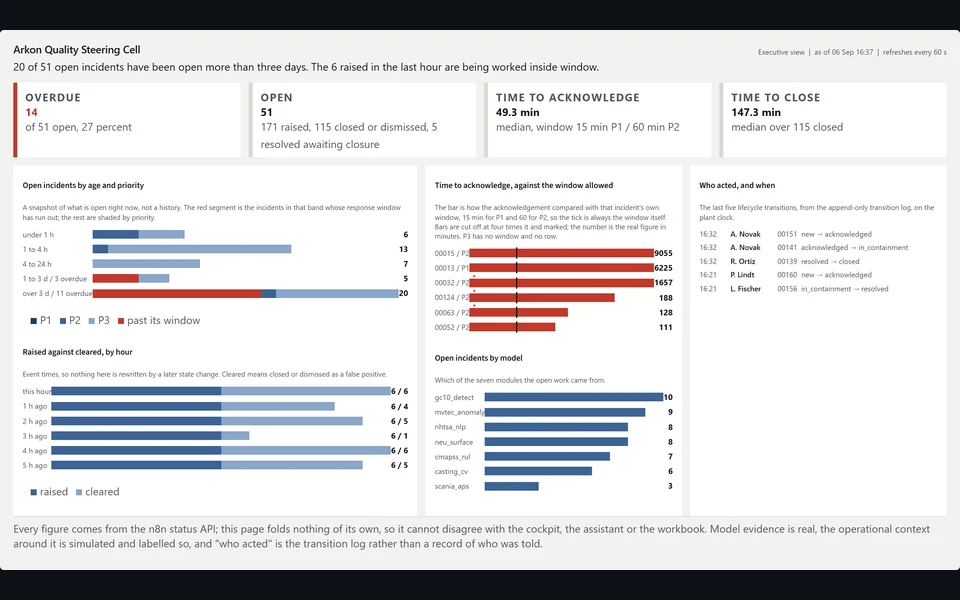
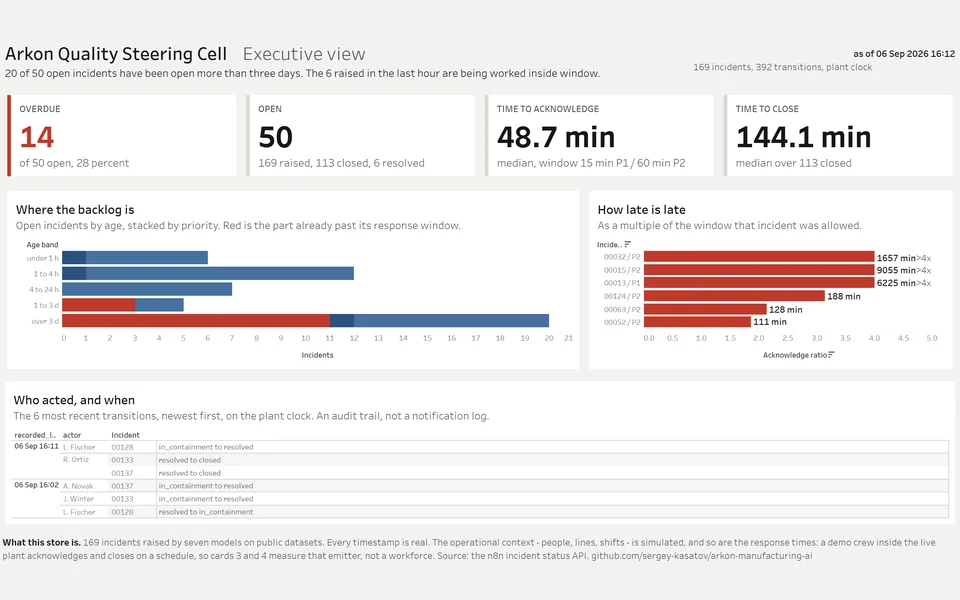
Pos. 13: the Arkon figure is the published Tableau executive view
The card was published this afternoon with a capture of the platform's own cockpit,
because the Tableau Public view printed hashes in two KPI cards at the time. The
republished view reads clean, so the figure now shows what the card's links open:
the Executive view as of 06 Sep 2026 16:12, with the alt texts, captions, index.md
sentence and the provenance row in assets/img/_sources.md following it.

diff --git a/de/projects.html b/de/projects.html
@@ -449,8 +449,8 @@
               <span class="badge-live"><span class="dot" aria-hidden="true"></span>Live</span>
             </div>
             <figure class="dc-fig">
-              <div class="dc-fig-box"><img src="../assets/img/p-arkon.webp" width="960" height="600" alt="Screenshot der Executive-Seite des Arkon-Cockpits am laufenden Werk: der Statussatz (20 von 51 offenen Vorf&#228;llen sind &#228;lter als drei Tage, die 6 der letzten Stunde werden innerhalb des Zeitfensters bearbeitet), vier KPI-Karten (&#252;berf&#228;llig 14 von 51, offen 51 bei 171 gemeldeten und 115 geschlossenen, Zeit bis zur Best&#228;tigung 49,3 min, Zeit bis zum Abschluss 147,3 min), offene Vorf&#228;lle nach Alter und Priorit&#228;t, gemeldet gegen erledigt je Stunde, Best&#228;tigungszeit gegen das erlaubte Zeitfenster, offene Vorf&#228;lle je Modell und die letzten f&#252;nf &#220;berg&#228;nge mit Bearbeiter" loading="lazy" decoding="async"></div>
-              <figcaption><b>Abb. 13</b><span>Streamlit-Cockpit, Executive-Seite am laufenden Werk · Aufnahme 06.09.2026</span></figcaption>
+              <div class="dc-fig-box"><img src="../assets/img/p-arkon.webp" width="960" height="600" alt="Screenshot der Executive-Ansicht der Arkon Quality Steering Cell auf Tableau Public, Stand 06.09.2026 16:12 Werksuhr: der Statussatz (20 von 50 offenen Vorf&#228;llen sind &#228;lter als drei Tage, die 6 der letzten Stunde werden innerhalb des Zeitfensters bearbeitet), vier KPI-Karten (&#252;berf&#228;llig 14 von 50 offenen, 28 Prozent; offen 50 bei 169 gemeldeten, 113 geschlossenen und 6 gel&#246;sten; Zeit bis zur Best&#228;tigung 48,7 min Median gegen ein Zeitfenster von 15 min f&#252;r P1 und 60 min f&#252;r P2; Zeit bis zum Abschluss 144,1 min Median &#252;ber 113 geschlossene), offene Vorf&#228;lle nach Altersband und Priorit&#228;t mit dem &#252;berf&#228;lligen Anteil in Rot, die sechs langsamsten Best&#228;tigungen als Vielfaches des jeweils erlaubten Zeitfensters und die sechs letzten &#220;berg&#228;nge mit Bearbeiter" loading="lazy" decoding="async"></div>
+              <figcaption><b>Abb. 13</b><span>Executive-Ansicht auf Tableau Public, Stand 06.09.2026 16:12 · Aufnahme 06.09.2026</span></figcaption>
             </figure>
             <div class="dc-body">
               <h3>Arkon Manufacturing AI</h3>

diff --git a/projects.html b/projects.html
@@ -452,8 +452,8 @@
               <span class="badge-live"><span class="dot" aria-hidden="true"></span>Live</span>
             </div>
             <figure class="dc-fig">
-              <div class="dc-fig-box"><img src="assets/img/p-arkon.webp" width="960" height="600" alt="Screenshot of the Arkon cockpit's Executive page on the live plant: the status sentence (20 of 51 open incidents open more than three days, the 6 raised in the last hour worked inside window), four KPI cards (overdue 14 of 51, open 51 with 171 raised and 115 closed, time to acknowledge 49.3 min, time to close 147.3 min), open incidents by age and priority, raised against cleared by hour, time to acknowledge against the window allowed, open incidents by model, and the last five transitions with who acted" loading="lazy" decoding="async"></div>
-              <figcaption><b>Fig. 13</b><span>Streamlit cockpit, Executive page on the live plant · captured 2026-09-06</span></figcaption>
+              <div class="dc-fig-box"><img src="assets/img/p-arkon.webp" width="960" height="600" alt="Screenshot of the Arkon Quality Steering Cell Executive view on Tableau Public, as of 6 Sep 2026 16:12 on the plant clock: the status sentence (20 of 50 open incidents open more than three days, the 6 raised in the last hour worked inside window), four KPI cards (overdue 14 of 50 open, 28 percent; open 50 with 169 raised, 113 closed and 6 resolved; time to acknowledge 48.7 min median against a window of 15 min for P1 and 60 min for P2; time to close 144.1 min median over 113 closed), open incidents by age band stacked by priority with the part past its window in red, the six slowest acknowledgements as a multiple of each incident's own window, and the six most recent transitions with who acted" loading="lazy" decoding="async"></div>
+              <figcaption><b>Fig. 13</b><span>Executive view on Tableau Public, as of 2026-09-06 16:12 · captured 2026-09-06</span></figcaption>
             </figure>
             <div class="dc-body">
               <h3>Arkon Manufacturing AI</h3>

diff --git a/assets/img/_sources.md b/assets/img/_sources.md
@@ -7,7 +7,7 @@ are the committed PNGs, the two online demos are CDP screenshots taken the same 
 (`capture_site_figures_2026_09_03.py`). The AI-Brain schematic (Pos. 12) is inline SVG in the pages,
 an architecture drawing and not a screenshot, and is labelled as such in its caption.
 
-Added 2026-09-06 by `agent_scripts/_oneoff/build_arkon_card_image_2026_09_06.py`: `p-arkon.webp`, the Arkon Manufacturing AI card on Pos. 13 (Sergey's decision the same evening: thirteen cards, the AI Order Triage Agent stays on Pos. 09 with `p-triage.webp`). The figure is a same-day CDP capture of the platform's own Streamlit cockpit on the live plant, not of the published Tableau Public view: that view's web renderer printed hashes in two KPI cards on the day of capture.
+Added 2026-09-06 by `agent_scripts/_oneoff/build_arkon_card_image_2026_09_06.py`: `p-arkon.webp`, the Arkon Manufacturing AI card on Pos. 13 (Sergey's decision the same evening: thirteen cards, the AI Order Triage Agent stays on Pos. 09 with `p-triage.webp`). The figure was first (16:37) a CDP capture of the platform's own Streamlit cockpit on the live plant, because the published Tableau Public view printed hashes in two KPI cards that afternoon; after Sergey republished the fixed workbook and the public URL read clean (17:19), it was swapped the same evening for a capture of the published Executive view itself (`agent_scripts/_oneoff/swap_arkon_card_figure_2026_09_06.py`), so the card shows what its links open.
 
 | File | Kind | Source | Source size | Crop (source px) | Output | Weight | What it shows |
 |---|---|---|---|---|---|---|---|
@@ -26,4 +26,4 @@ Added 2026-09-06 by `agent_scripts/_oneoff/build_arkon_card_image_2026_09_06.py`
 | `case-maintenance.webp` | fig | `https://github.com/sergey-kasatov/predictive-maintenance-ml` `images/23_pr_curves.png` | 820x700 | none | 820x700 | 19 KB, q85 | repository figure: precision-recall curves of the three classifiers on the test set |
 | `p-agents.webp` | card | CDP capture `mission_control_2x.png` (2026-09-03) | 2880x3000 | (0, 596, 2880, 1940) | 960x600 | 47 KB, q85 | Vault Mission Control, same capture and crop as case-agent-mc, fitted to 16:10 (dark bands top and bottom are the board's own background) |
 | `case-agent-mc.webp` | figwide | CDP capture `mission_control_2x.png` (2026-09-03) | 2880x3000 | (0, 596, 2880, 1940) | 1920x896 | 286 KB, qlossless | Vault Mission Control (localhost:8137, serve_heartbeat.py), CDP capture at 1440 px, 2x, 14:18 CEST; the worker grid only, WARN states as found; everything above the first tile row (infrastructure tiles with host, user and pid, the KPI row, the filter chips and action buttons) cropped out |
-| `p-arkon.webp` | card | CDP capture `cockpit_exec_2x.png` (2026-09-06) | 3200x2000 | (160, 38, 3040, 1658) | 960x600 | 46 KB, q85 | Streamlit cockpit, Executive page (http://AK2101:8303/executive) on the live plant, CDP capture at 1600 px, 2x, 16:37 CEST; the panel only, padded to 16:10 in its own off-white; status sentence, four KPI cards, five charts and the transition feed as found |
+| `p-arkon.webp` | card | CDP capture `tableau_exec_embed_wide_2x.png` (2026-09-06) | 3280x2000 | (16, 60, 3184, 1828) | 960x600 | 42 KB, q85 | The published Executive view on Tableau Public (https://public.tableau.com/views/ArkonQualitySteeringCell/ArkonExecutiveView), CDP capture of the embed at 1640 px, 2x, about 18:10 CEST; the dashboard canvas only, padded to 16:10 in its own off-white; as-of stamp 06 Sep 2026 16:12, status sentence, four KPI cards, the age profile, the acknowledge-ratio bars and the six most recent transitions as found |

diff --git a/index.md b/index.md
@@ -355,8 +355,8 @@ banner required). Available in English and German
 (https://kasatov.de/de/index.html). Written and maintained by Sergey Kasatov.
 Every project card carries a figure taken from the project itself: a figure
 committed in its repository, or a same-day screenshot of the online demo or of the
-running system (the private agent system on Pos. 12 shows its live status board,
-the Arkon platform on Pos. 13 its live cockpit). Per-image provenance:
+running system (the private agent system on Pos. 12 shows its live status board).
+Per-image provenance:
 https://kasatov.de/assets/img/_sources.md
 
 Legal notice: https://kasatov.de/impressum.html · Privacy policy: https://kasatov.de/privacy.html
